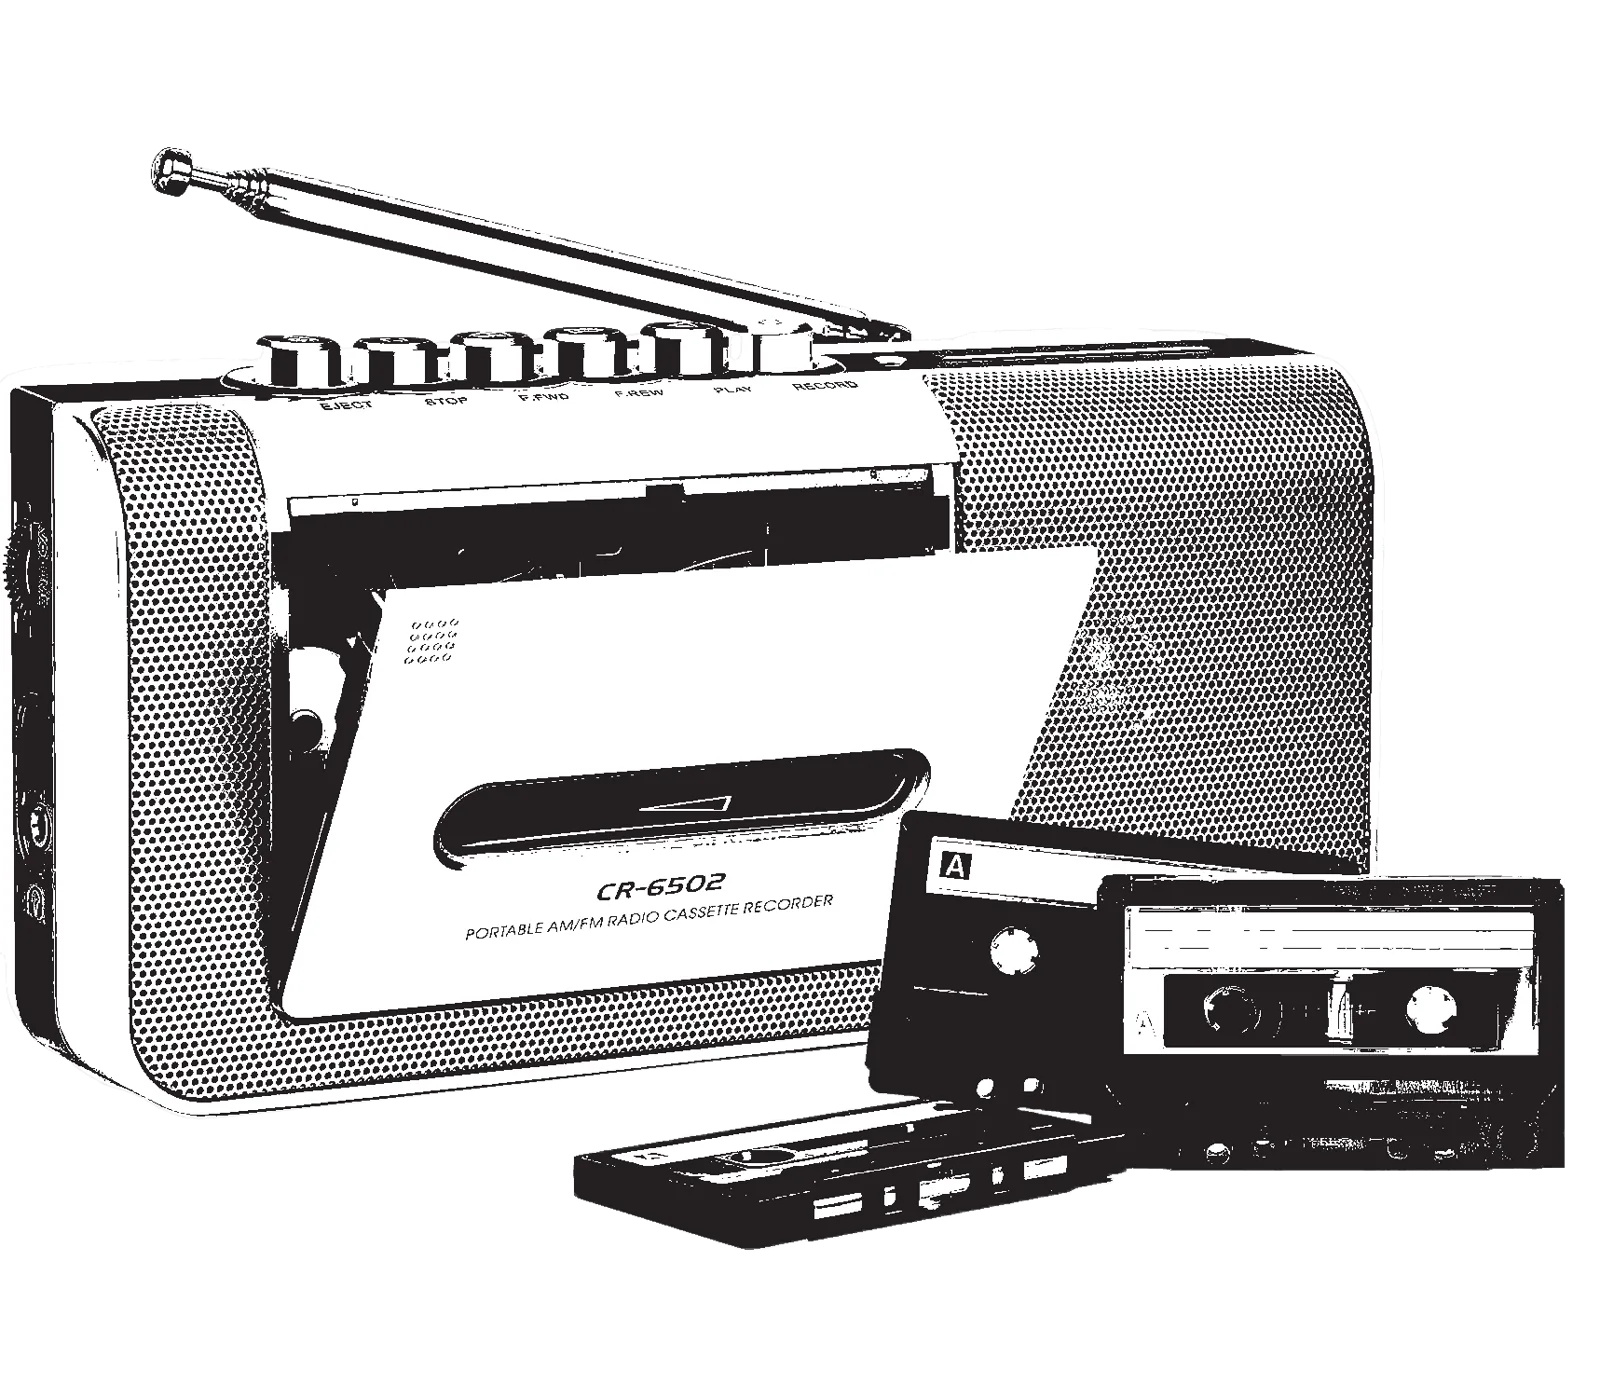
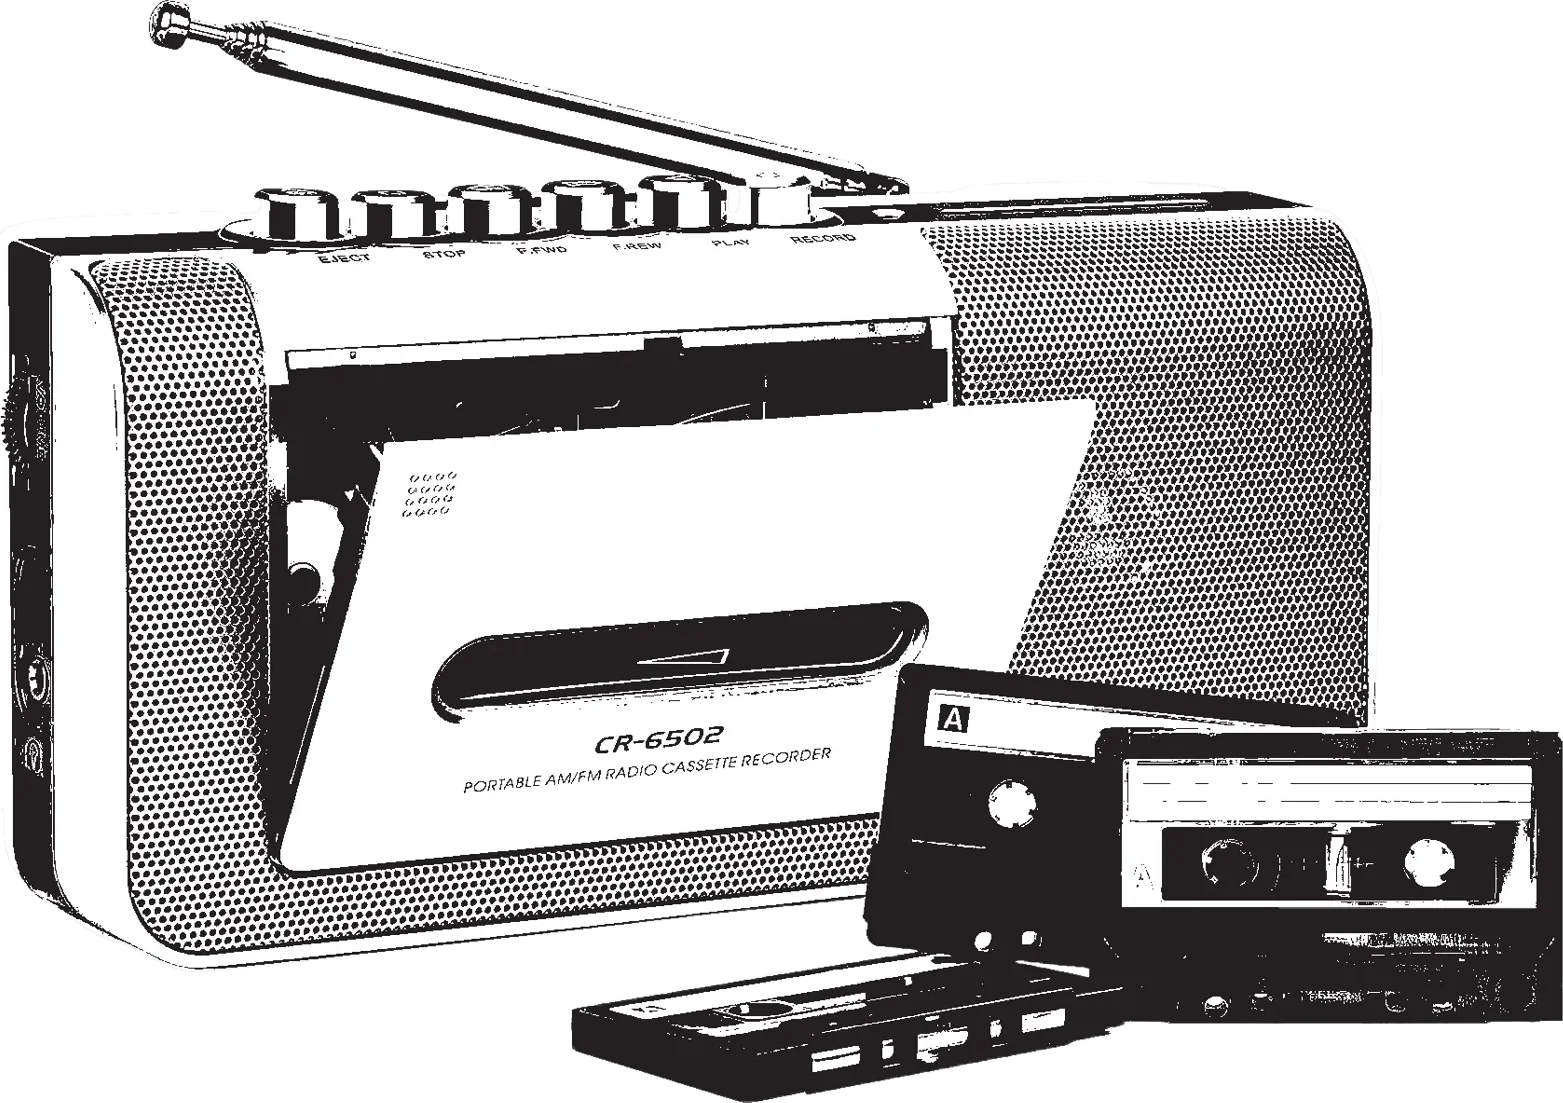
Carvaan: scroll-driven Familiarity swap, tidy old-systems row, spacing
- Cassette pins while scrolling, fades out and 'Familiarity' takes its place
  (static fallback for reduced motion)
- Looking back: remove floating notes; cassette player and radio share a
  baseline with matching two-line captions
- More breathing room between pain points and the reviews composition

Claude-Session: https://claude.ai/code/session_01XbRpe75oocsijDTy4CTJgQ

diff --git a/carvaan.html b/carvaan.html
@@ -403,7 +403,7 @@ body.cv-noside .side{opacity:0;pointer-events:none}
 .cv-hunt__txt .prose{margin-top:0}
 
 /* reviews scattered around me at the laptop */
-.cv-rev{aspect-ratio:1140/520;margin-top:8px}
+.cv-rev{aspect-ratio:1140/520;margin-top:clamp(40px,6vw,72px)}
 .cv-rev .r-me{left:21%;top:13.8%;width:58%}
 .cv-rev .r1{left:2%;top:14%;width:20%;transform:rotate(-5deg)}
 .cv-rev .r2{left:13.8%;top:32%;width:22.5%;transform:rotate(6deg)}
@@ -460,17 +460,6 @@ body.cv-noside .side{opacity:0;pointer-events:none}
 .cv-hmw li::before{content:"0" counter(h);position:absolute;left:0;top:3px;font-family:var(--mono);font-size:12px;font-weight:400;color:var(--accent)}
 
 /* looking back: devices on a line + familiarity */
-.cv-old{aspect-ratio:1440/330;margin-top:16px}
-.cv-old .o-cas{left:19%;top:5%;width:27%}
-.cv-old .o-radio{left:60.5%;top:0;width:20.5%}
-.cv-old .n{opacity:.9}
-.cv-old .n1{left:46%;top:2%;width:6%;transform:rotate(-8deg)}
-.cv-old .n2{left:84%;top:4%;width:5.5%;transform:rotate(10deg)}
-.cv-old .n3{left:11%;top:12%;width:4%}
-.cv-fam{margin-top:8px;text-align:center}
-.cv-fam__w{font-family:var(--display);font-size:clamp(44px,7vw,92px);font-weight:500;letter-spacing:-0.035em;line-height:1;color:var(--faint)}
-.cv-fam img{display:block;width:min(560px,86%);height:auto;margin:10px auto 0}
-.cv-fam p{max-width:46ch;margin:6px auto 0}
 
 /* ideation */
 .cv-dials{margin-top:18px;display:grid;grid-template-columns:1fr 1fr;gap:clamp(16px,2.4vw,28px)}
@@ -566,6 +555,31 @@ body.cv-noside .side{opacity:0;pointer-events:none}
 .cv-hmw__list li{counter-increment:h;padding-top:12px;border-top:2px solid var(--ink);font-family:var(--display);font-size:clamp(17px,1.7vw,19px);font-weight:600;letter-spacing:-0.01em;line-height:1.35;color:var(--ink)}
 .cv-hmw__list li::before{content:"0" counter(h);display:block;margin-bottom:8px;font-family:var(--mono);font-size:12px;font-weight:400;color:var(--accent)}
 @media (max-width:840px){.cv-hmw__list{grid-template-columns:1fr}}
+
+/* Familiarity: cassette pinned while scrolling, then swapped for the word */
+.cv-fam{position:relative;height:170vh;margin-top:8px}
+.cv-fam__stick{position:sticky;top:max(70px,calc(50vh - 260px));text-align:center}
+.cv-fam__stage{position:relative;width:min(560px,86%);margin:0 auto;aspect-ratio:1600/1040}
+.cv-fam__cas{position:absolute;inset:0;width:100%;height:100%;object-fit:contain;will-change:opacity,transform}
+.cv-fam__w{position:absolute;inset:0;display:grid;place-items:center;font-family:var(--display);font-size:clamp(48px,8vw,104px);font-weight:500;letter-spacing:-0.035em;line-height:1;color:var(--ink);opacity:0;will-change:opacity,transform}
+.cv-fam__cap{max-width:46ch;margin:14px auto 0;opacity:0;transition:opacity .3s ease}
+@media (prefers-reduced-motion:reduce){
+  .cv-fam{height:auto}
+  .cv-fam__stick{position:static}
+  .cv-fam__stage{aspect-ratio:auto}
+  .cv-fam__cas{position:static;height:auto}
+  .cv-fam__w{position:static;opacity:1;color:var(--faint);margin-bottom:10px;order:-1}
+  .cv-fam__stage{display:flex;flex-direction:column}
+  .cv-fam__cap{opacity:1}
+}
+
+/* looking back: two devices on one baseline */
+.cv-old{margin-top:22px;display:grid;grid-template-columns:1.3fr 1fr;gap:clamp(24px,5vw,72px);align-items:end;max-width:760px;margin-left:auto;margin-right:auto}
+.cv-old figure{margin:0}
+.cv-old img{display:block;width:100%;height:auto}
+.cv-old figcaption{margin-top:12px;padding-top:10px;border-top:1px solid var(--line);font-family:var(--mono);font-size:11px;letter-spacing:.06em;text-transform:uppercase;color:var(--sub)}
+.cv-old figcaption b{display:block;margin-bottom:3px;font-weight:500;color:var(--ink)}
+@media (max-width:600px){.cv-old{grid-template-columns:1fr 1fr;gap:16px}.cv-old figcaption{font-size:10px;letter-spacing:.04em}}
 </style>
 
 
@@ -764,17 +778,18 @@ body.cv-noside .side{opacity:0;pointer-events:none}
         <h2 class="sec__h">“Old systems were more intuitive than we think.”</h2>
         <p class="prose">People identified songs through movies, not titles. They checked cassette covers, flipped them, read track numbers, and estimated time while fast-forwarding.</p>
         <p class="prose">Older AM transistors made navigation intuitive with <mark class="hl">two dials</mark>: one for tuning between 1–10 and another for refining 10–100. Both systems were predictable, physical, and rooted in muscle memory — familiar rituals that made searching feel effortless.</p>
-        <div class="cv-comp cv-old" role="img" aria-label="A cassette player and an AM transistor radio on a line">
-          <img class="n n3" src="carvaan/note-3.webp" alt="">
-          <img class="o-cas" src="carvaan/old-cassette-player.webp" alt="" loading="lazy">
-          <img class="n n1" src="carvaan/note-1.webp" alt="">
-          <img class="o-radio" src="carvaan/old-transistor.webp" alt="" loading="lazy">
-          <img class="n n2" src="carvaan/note-2.webp" alt="">
+        <div class="cv-old">
+          <figure><img src="carvaan/old-cassette-player.webp" alt="Portable cassette player with tapes" loading="lazy"><figcaption><b>Cassettes</b>Flip, read, fast-forward</figcaption></figure>
+          <figure><img src="carvaan/old-transistor.webp" alt="AM transistor radio" loading="lazy"><figcaption><b>AM transistor</b>Tune, then refine</figcaption></figure>
         </div>
-        <div class="cv-fam">
-          <div class="cv-fam__w">Familiarity</div>
-          <img src="carvaan/old-cassette.webp" alt="TDK cassette tape" loading="lazy">
-          <p class="prose">The redesign borrows the rituals people already know, instead of teaching new ones.</p>
+        <div class="cv-fam" id="fam">
+          <div class="cv-fam__stick">
+            <div class="cv-fam__stage">
+              <img class="cv-fam__cas" src="carvaan/old-cassette.webp" alt="TDK cassette tape" loading="lazy">
+              <div class="cv-fam__w">Familiarity</div>
+            </div>
+            <p class="prose cv-fam__cap">The redesign borrows the rituals people already know, instead of teaching new ones.</p>
+          </div>
         </div>
       </section>
 
@@ -890,6 +905,28 @@ body.cv-noside .side{opacity:0;pointer-events:none}
   zoom.addEventListener('click',function(){ zoom.classList.remove('is-on'); });
   document.addEventListener('keydown',function(e){ if(e.key==='Escape') zoom.classList.remove('is-on'); });
   // people row: show each person's quote on hover / tap (not on me)
+    // familiarity: as you scroll, the cassette fades out and the word takes its place
+  var fam=document.getElementById('fam');
+  if(fam && !(window.matchMedia && window.matchMedia('(prefers-reduced-motion:reduce)').matches)){
+    var cas=fam.querySelector('.cv-fam__cas'), word=fam.querySelector('.cv-fam__w'), cap=fam.querySelector('.cv-fam__cap');
+    var clamp=function(v){ return v<0?0:v>1?1:v; };
+    var tick=false;
+    function famUpd(){
+      tick=false;
+      // d = pixels scrolled since the cassette pinned; hold it, crossfade, then hold the word
+      var r=fam.getBoundingClientRect(), pin=parseFloat(getComputedStyle(fam.firstElementChild).top)||0;
+      var d=pin-r.top;
+      var out=clamp((d-220)/340), inn=clamp((d-380)/340);
+      cas.style.opacity=String(1-out);
+      cas.style.transform='scale('+(1-out*0.08)+')';
+      word.style.opacity=String(inn);
+      word.style.transform='translateY('+((1-inn)*24)+'px)';
+      cap.style.opacity=inn>0.9?'1':'0';
+    }
+    window.addEventListener('scroll',function(){ if(!tick){ tick=true; requestAnimationFrame(famUpd); } },{passive:true});
+    window.addEventListener('resize',famUpd); famUpd();
+  }
+
   var pw=document.getElementById('ppl');
   if(pw){
     var hots=[].slice.call(pw.querySelectorAll('.cv-hot'));
